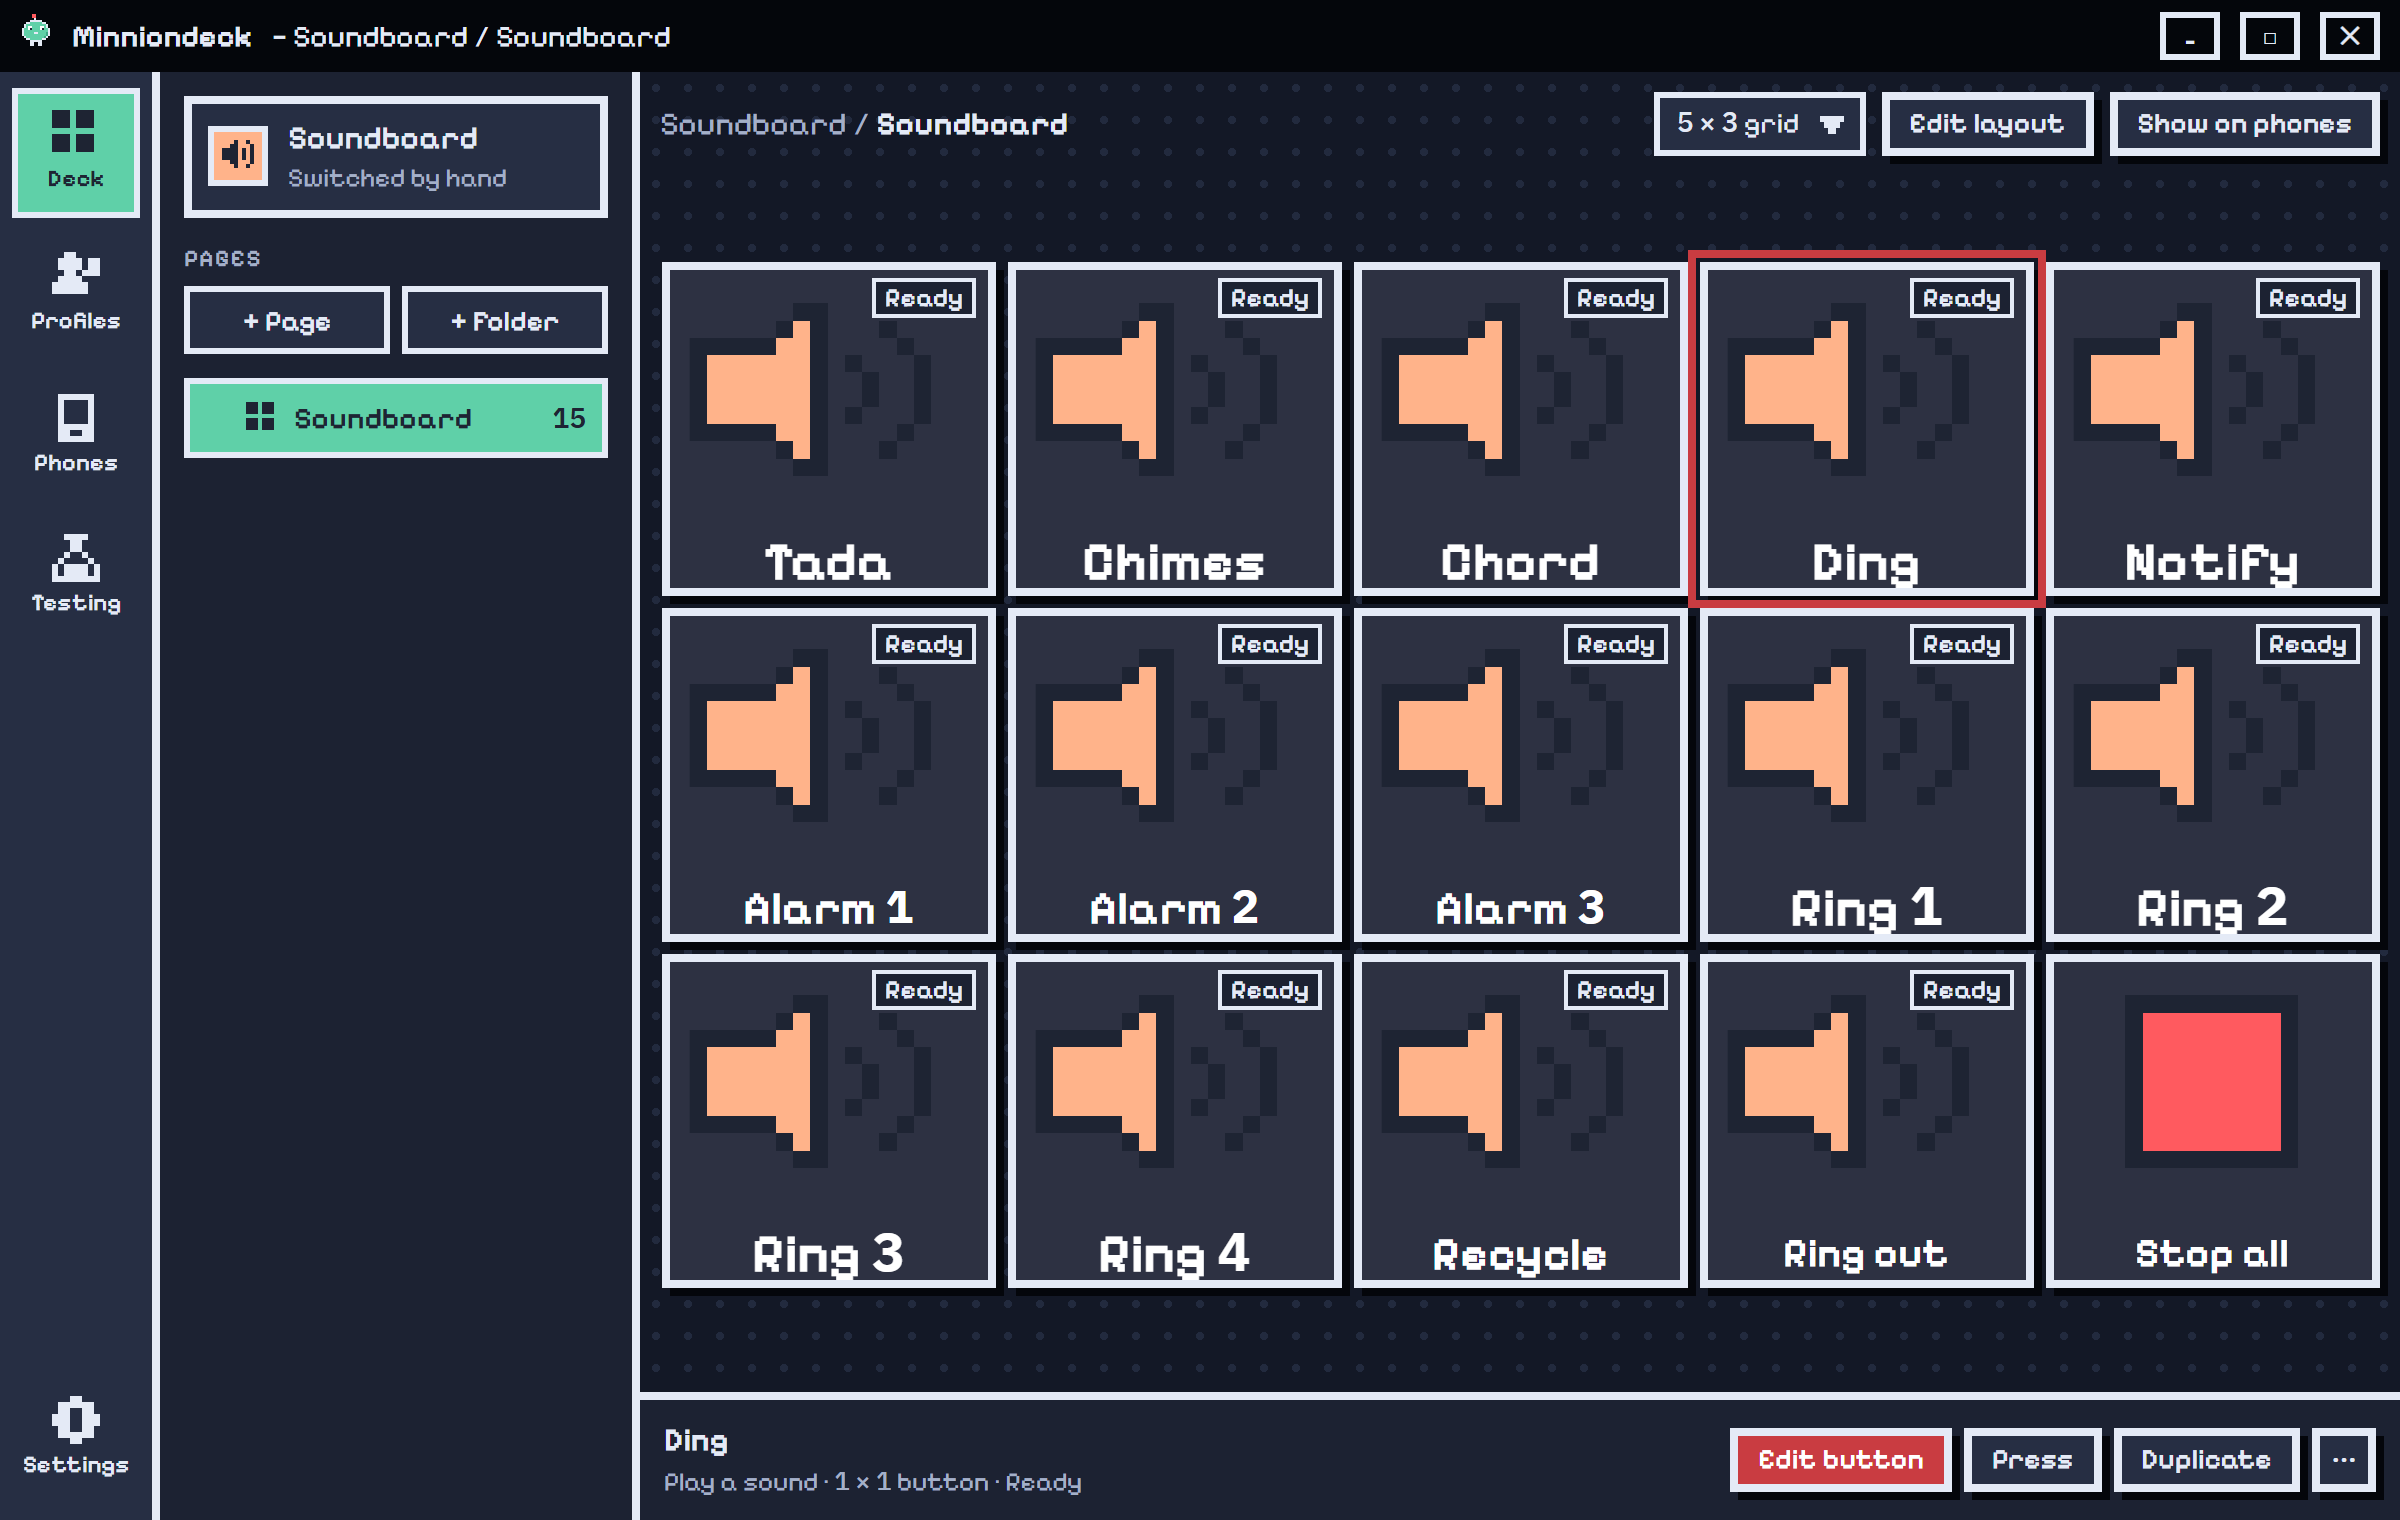
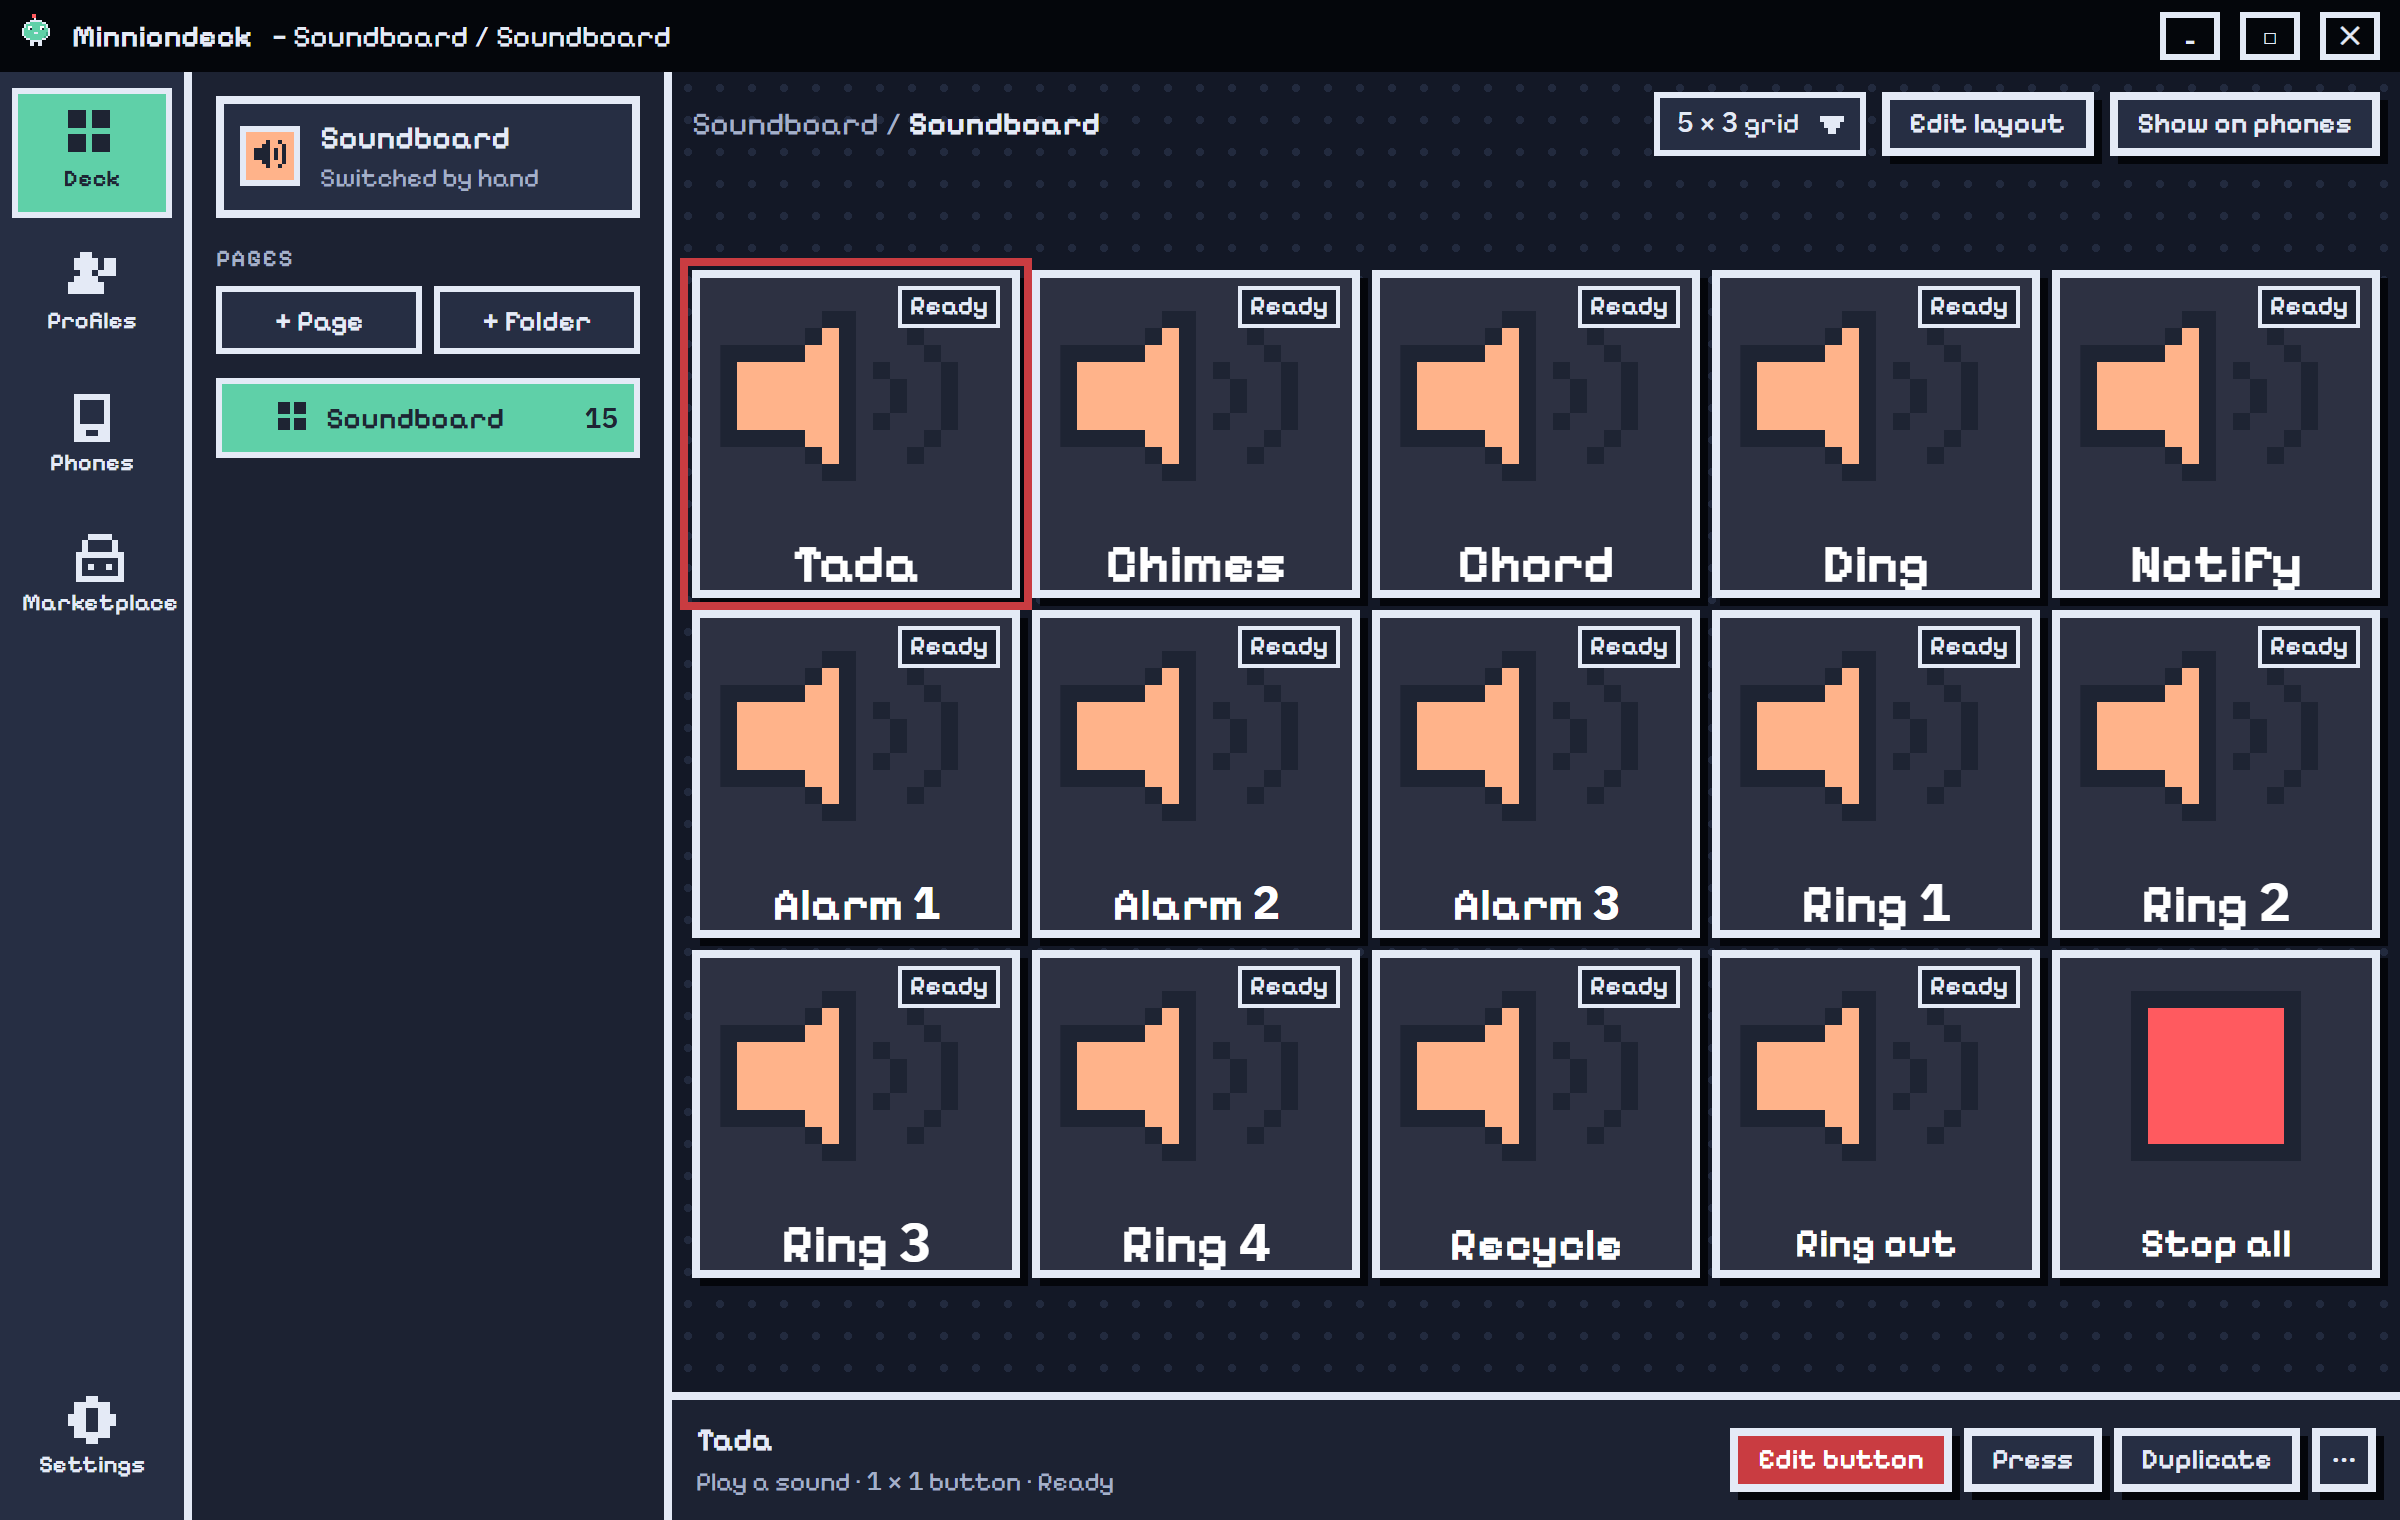
New README screenshots of the current app

Changed region(s): [[0.0, 0.0309, 1.0, 1.0], [0.9062, 0.7421, 0.9375, 0.773]]

diff --git a/README.md b/README.md
@@ -15,7 +15,7 @@ Plugins add music, lights, timers, sounds and more.
 
 **[Website](https://minnnion.github.io)** · **[MinnionDeck Marketplace](https://github.com/minnnion/Minnion-Marketplace)**
 
-<img src="docs/screenshots/deck.png" alt="The Minniondeck desktop app showing the Case Lights profile" width="860">
+<img src="docs/screenshots/deck.png" alt="The Minniondeck desktop app showing the Weather profile" width="860">
 
 </div>
 
